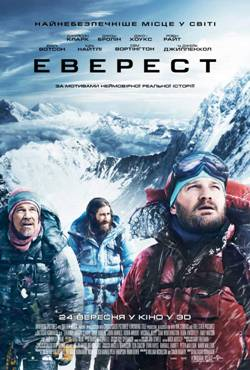
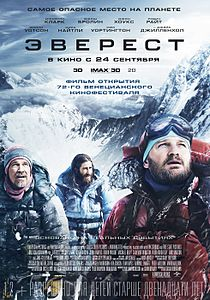
Удалён украинский язык

diff --git a/src/components/ListFilms.vue b/src/components/ListFilms.vue
@@ -36,7 +36,7 @@ export default {
         {
           id: 3,
           img: require("../assets/everest.jpeg"),
-          title: "Еверест",
+          title: "Эверест",
           score: "7.2",
         },
         {
